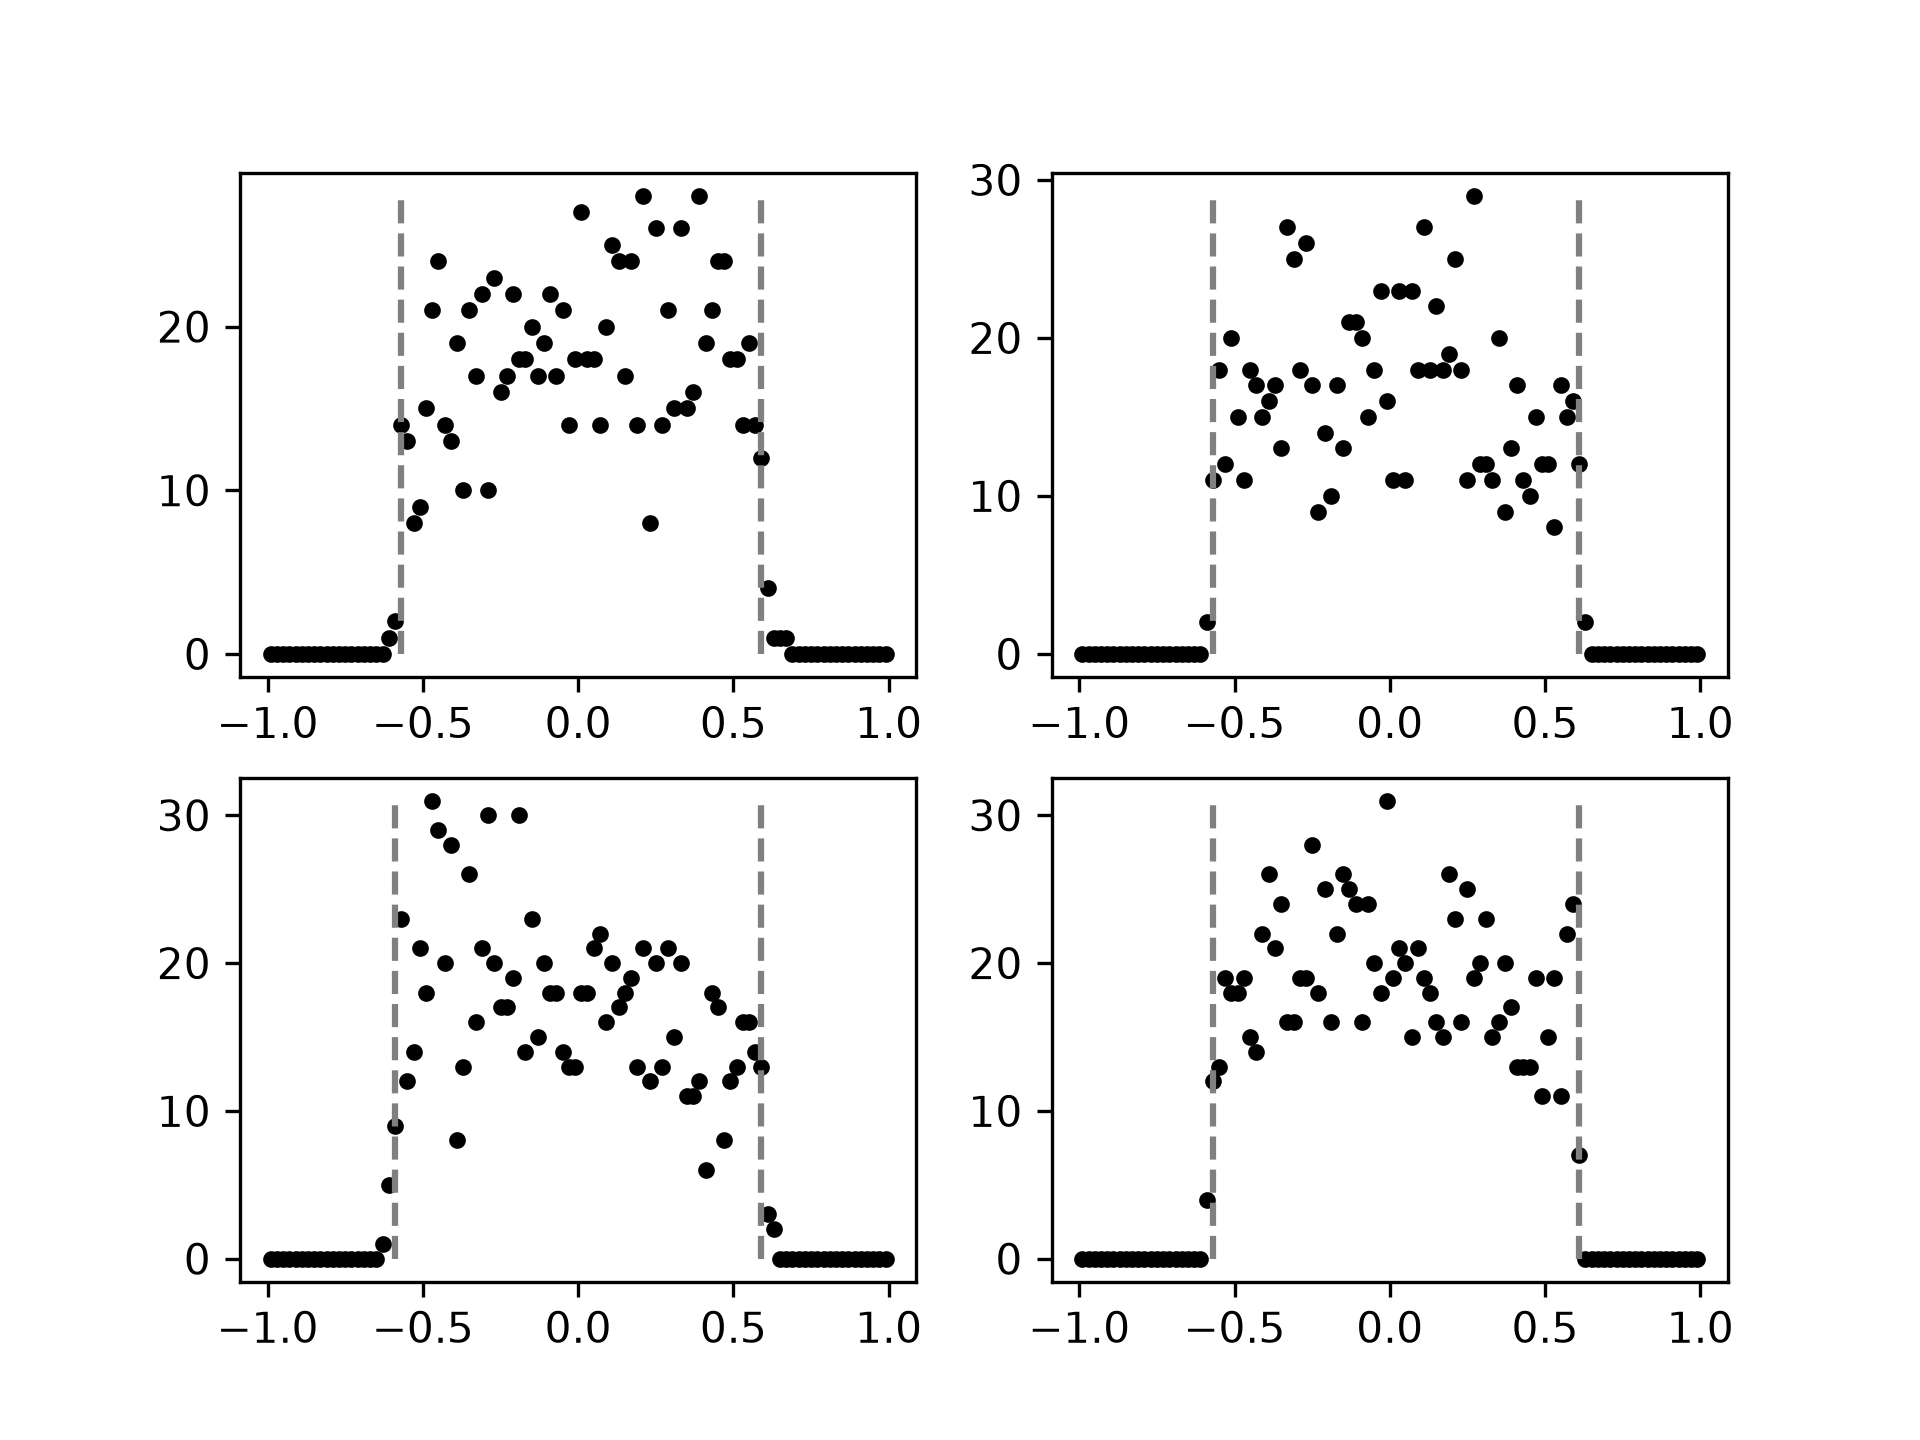
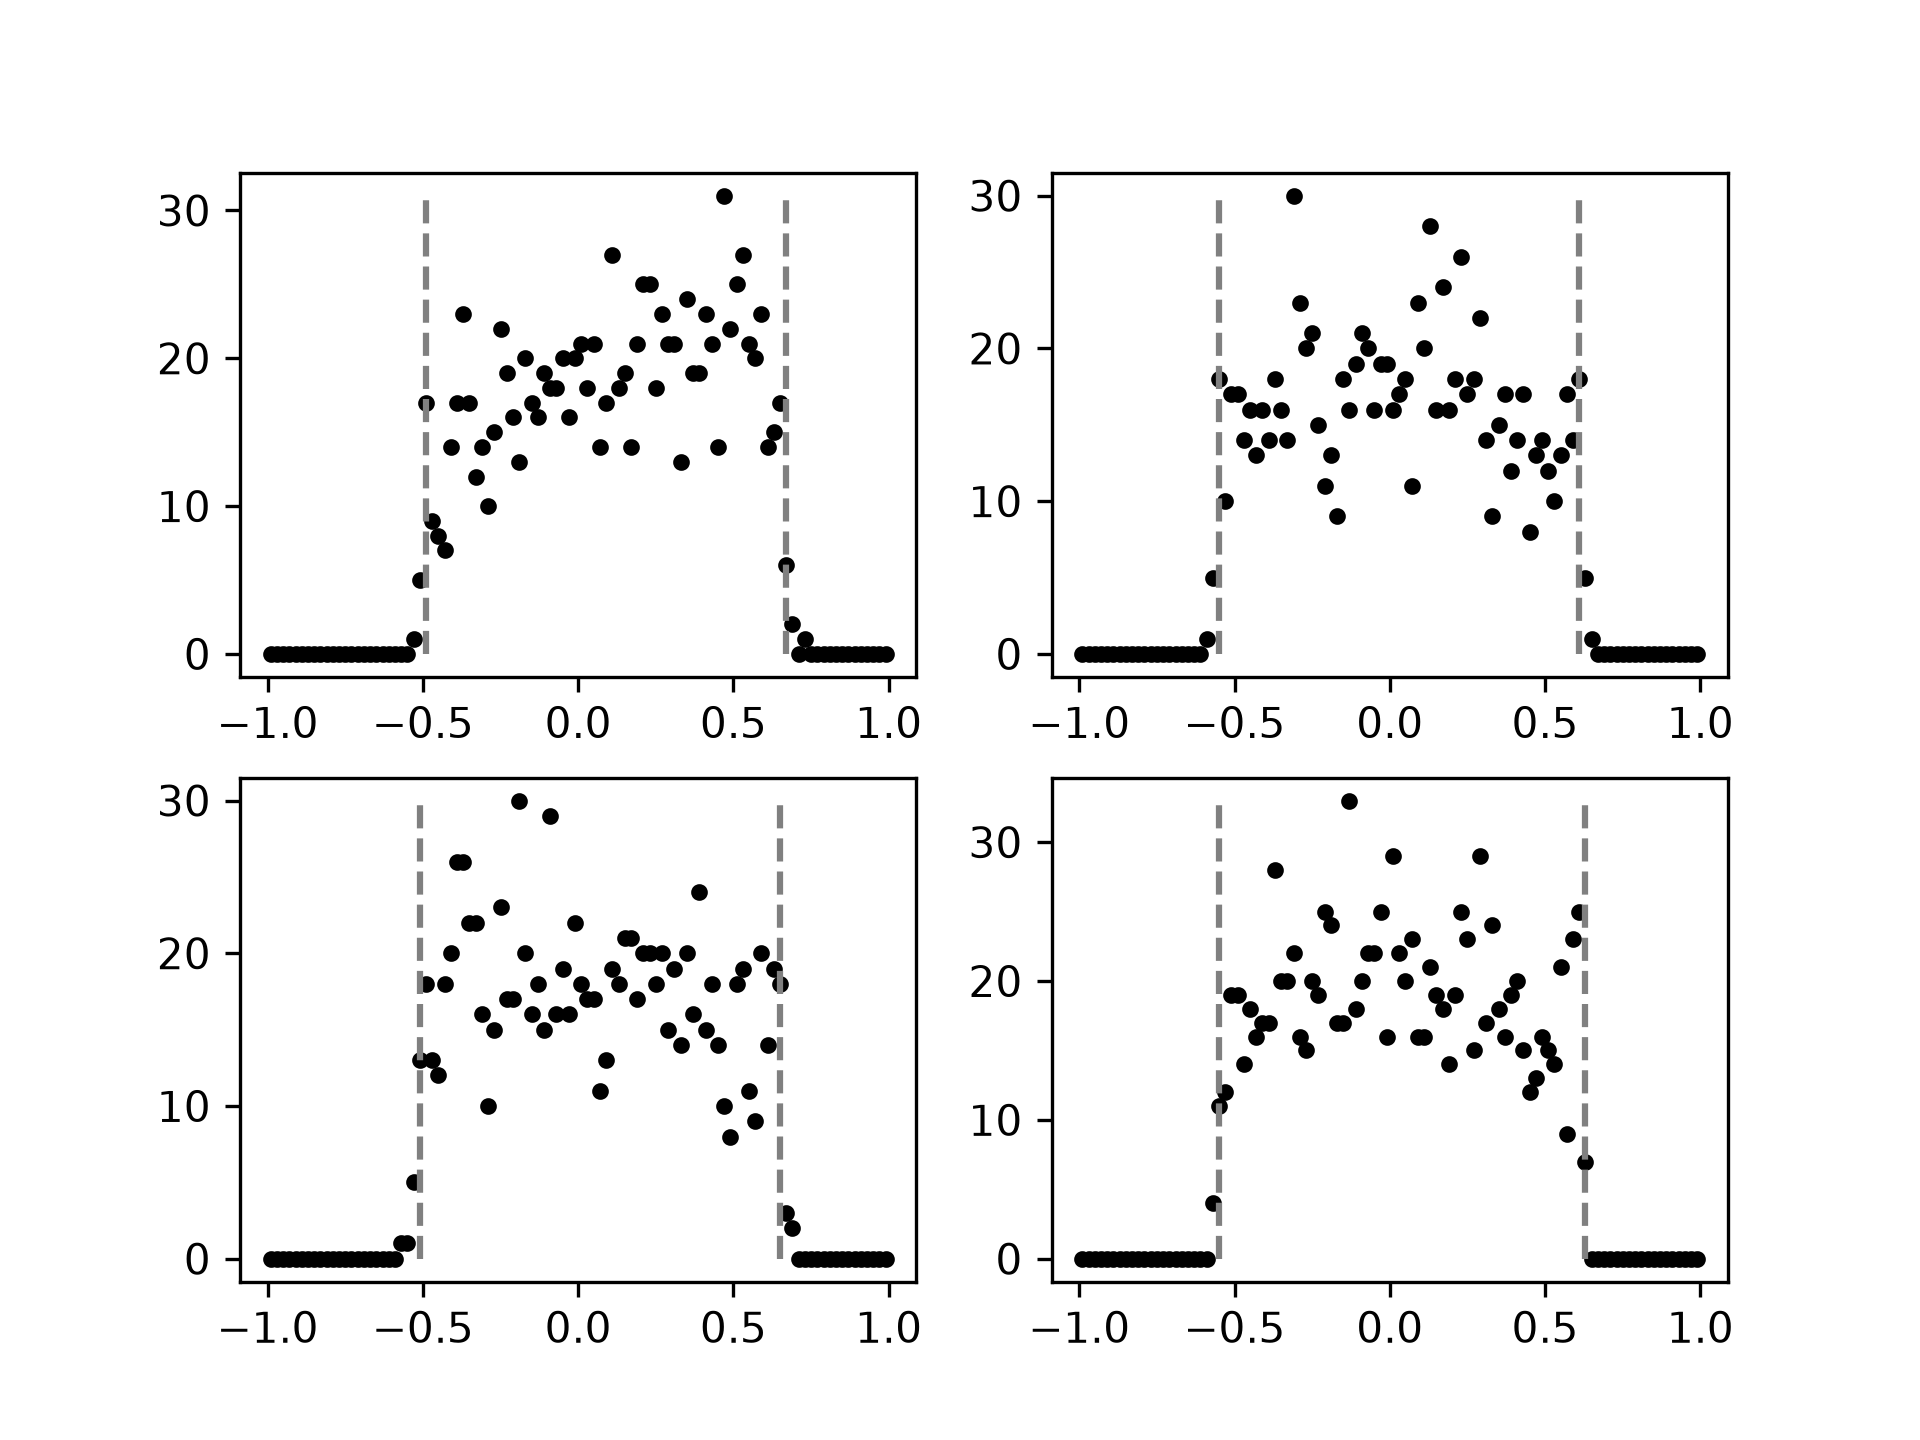
Modified version using Jacobian

diff --git a/global_fitter.py b/global_fitter.py
@@ -1,6 +1,12 @@
+from sqlite3.dbapi2 import paramstyle
+
 import numpy
 import matplotlib.pyplot
 import scipy
+import time
+
+from scipy.optimize import minimize
+
 
 # This function is to fit double half-Gaussians with a straight line in between for SX3 position calibration
 def top_hat(x, left, right, sigma, left_amp, right_amp):
@@ -83,10 +89,10 @@ class global_fitter:
                 self.params[36 + strip] = right
 
     def set_kinematics(self, m_beam, m_targ, m_eject, m_rec, Q_gs):
-        self.m_beam_MeV = m_beam * 931.478;
-        self.m_targ_MeV = m_targ * 931.478;
-        self.m_eject_MeV = m_eject * 931.478;
-        self.m_rec_MeV = m_rec * 931.478;
+        self.m_beam_MeV = m_beam * 931.478
+        self.m_targ_MeV = m_targ * 931.478
+        self.m_eject_MeV = m_eject * 931.478
+        self.m_rec_MeV = m_rec * 931.478
         self.Q_gs = Q_gs
 
     def get_Ex(self, energy, theta, beam_en):
@@ -132,7 +138,7 @@ class global_fitter:
         front_sum = stripL_gain * data[4] + stripR_gain * data[5]
         raw_position = (stripR_gain * data[5] - stripL_gain * data[4]) / front_sum
         self.data_raw_pos[strip].append(raw_position)
-        position = (raw_position - left_edge) * (1. / (right_edge - left_edge)) * 75.0 + z_offset;
+        position = (raw_position - left_edge) * (1. / (right_edge - left_edge)) * 75.0 + z_offset
         theta = numpy.arctan(self.radius[strip] / position)
         if (theta < 0):
             theta += numpy.pi
@@ -254,16 +260,18 @@ class global_fitter:
         self.eval_ct += 1
         return chi2
 
+print("timer started")
+start_time = time.perf_counter()
 
 fitter = global_fitter()
 fitter.detID = 16  # Change this for every clock (24-hour) position
 fitter.threshold = 5
 fitter.load_PID("SiPID_65um_4He.dat")
 fitter.set_kinematics(3.0160, 38.9637, 4.0026, 37.9691, 7.4999)
-fitter.nominal_beam_en = 31.5;
+fitter.nominal_beam_en = 31.5
 fitter.load_params("SX3.16.params")  # Change clock position here as well
 # fitter.params[42] = 0.0115;
-fitter.params[42] = 0.0004025;
+fitter.params[42] = 0.0004025
 print(fitter.params)
 # Below are the different data sets for the different states
 fitter.eval_dataset("labeled_data_2401.dat", 2.401)
@@ -274,12 +282,19 @@ fitter.eval_dataset("labeled_data_1698.dat", 1.698)
 print(fitter.chi2_LR, fitter.chi2_PID, fitter.chi2_Ex)
 fitter.eval_dataset("alpha_ds_data.dat", -1)
 print(fitter.chi2_LR, fitter.chi2_PID, fitter.chi2_Ex)
+
 # Knobs to fine-tune for optimal optimization
 
-# modifiable
+#bottom left
 fitter.chi2_LR_scale = 1e-4
+
+#top left
 fitter.chi2_PID_scale = 1
+
+#top right
 fitter.chi2_Ex_scale = 500
+
+#bottom right
 fitter.chi2_edges_scale = 100000
 
 fitter.plot("global_fitter_init.png")
@@ -291,8 +306,51 @@ fitter.add_dataset("labeled_data_7140.dat", 7.140)
 fitter.add_dataset("labeled_data_1698.dat", 1.698)
 fitter.add_dataset("alpha_ds_data.dat", -1)
 p0 = fitter.params
-popt = scipy.optimize.minimize(fitter.eval_all, p0, method='Powell')
+# popt = scipy.optimize.minimize(fitter.eval_all, p0, method='Powell')
+def cache_datasets(fitter):
+    cache = {}
+    for name, ref_Ex in fitter.datasets:
+        cache[name] = numpy.genfromtxt(name)
+
+    def eval_dataset_cached(dataset, ref_Ex):
+        fitter.ref_Ex = ref_Ex
+        for d in cache[dataset]:
+            fitter.eval(d)
+
+    fitter.eval_dataset = eval_dataset_cached
+    print("Cached %d datasets in memory." % len(cache))
+
+def objective(params):
+    return fitter.eval(params)
+
+initial_params = fitter.params
+
+res = minimize(
+    fun=objective,
+    x0=initial_params,
+    method='BFGS',
+    jac='3-point'
+)
+print("Starting gradient-based fit (BFGS)...")
+print("Optimized parameters: ", res.x)
+
+cache_datasets(fitter)
+
+saved_edges_scale = fitter.chi2_edges_scale
+fitter.chi2_edges_scale = 0.0   # disable non-smooth term during gradient fit
+
+fitter.chi2_edges_scale = saved_edges_scale  # restore for polishing step
+
+print("Polishing with Powell...")
+t0 = time.time()
+popt = scipy.optimize.minimize(fitter.eval_all, res.x, method="Powell")
+print("Powell polish took %.1f sec" % (time.time() - t0))
 print(popt)
+
+fitter.eval_all(popt.x)
+print(fitter.chi2_LR, fitter.chi2_PID, fitter.chi2_Ex)
+fitter.plot("global_fitter_final_gradient.png")
+
 fitter.eval_all(popt.x)
 print(fitter.chi2_LR, fitter.chi2_PID, fitter.chi2_Ex)
 
@@ -300,3 +358,9 @@ fitter.plot("global_fitter_final.png")
 
 for i in range(len(popt.x)):
     print("%8.7f" % popt.x[i])
+
+end_time = time.perf_counter()
+
+execution_time = end_time - start_time
+print(execution_time/60)
+print("minutes")

diff --git a/README.md b/README.md
@@ -54,3 +54,24 @@ popt = scipy.optimize.minimize(fitter.eval_all, p0, method='BFGS')
 Runtime: 16 minutes, 3 seconds
 
 ![Graph 5](global_fitter_final.png)
+
+<br>
+
+<h1>Using Jacobian</h1>
+
+```Python
+def objective(params):
+    return fitter.eval(params)
+
+initial_params = fitter.params
+
+res = minimize(
+    fun=objective,
+    x0=initial_params,
+    method='BFGS',
+    jac='3-point'
+)
+print("Starting gradient-based fit (BFGS)...")
+print("Optimized parameters: ", res.x)
+
+```
